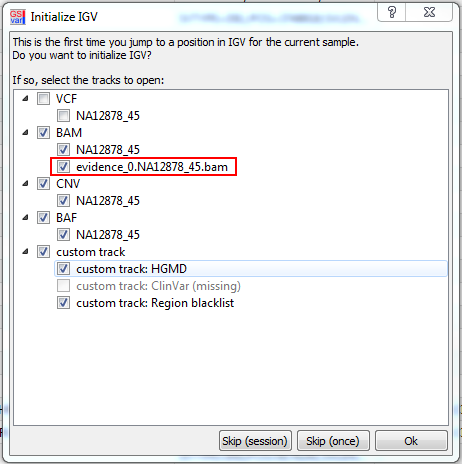
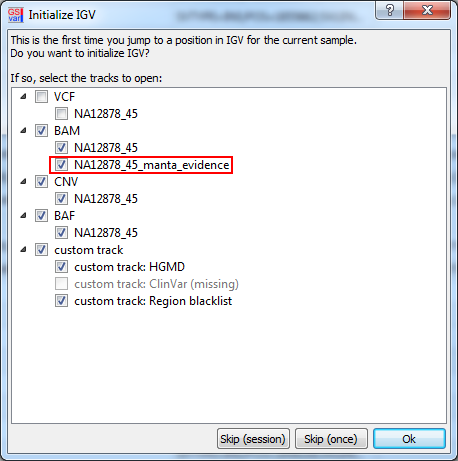
bin/GSvar_filters_sv.ini: updated default SV filters
doc/GSvar/sv_analysis.md: updated docu (Manta evidence file names)

doc/GSvar/sv_igv_initdlg.png: updated menu

Changed region(s): [[0.0, 0.0, 1.0, 1.0]]

diff --git a/doc/GSvar/sv_analysis.md b/doc/GSvar/sv_analysis.md
@@ -59,7 +59,7 @@ A list of all available filters can be found here: [SvFilterAnnotation](https://
 
 ## IGV
 
-A double click on a structural variant will open this variant in IGV. In case of a translocation a double click will open only the first breakpoint. To display the second breakpoint right click and select *Open position B in IGV* or *Open position A/B in IGV split screen*. In the following dialog select the Manta evidence BAM file (starting with *evidence_*):
+A double click on a structural variant will open this variant in IGV. In case of a translocation a double click will open only the first breakpoint. To display the second breakpoint right click and select *Open position B in IGV* or *Open position A/B in IGV split screen*. In the following dialog select the Manta evidence BAM file:
 
 ![SV IGV init dialog](sv_igv_initdlg.png)
 
